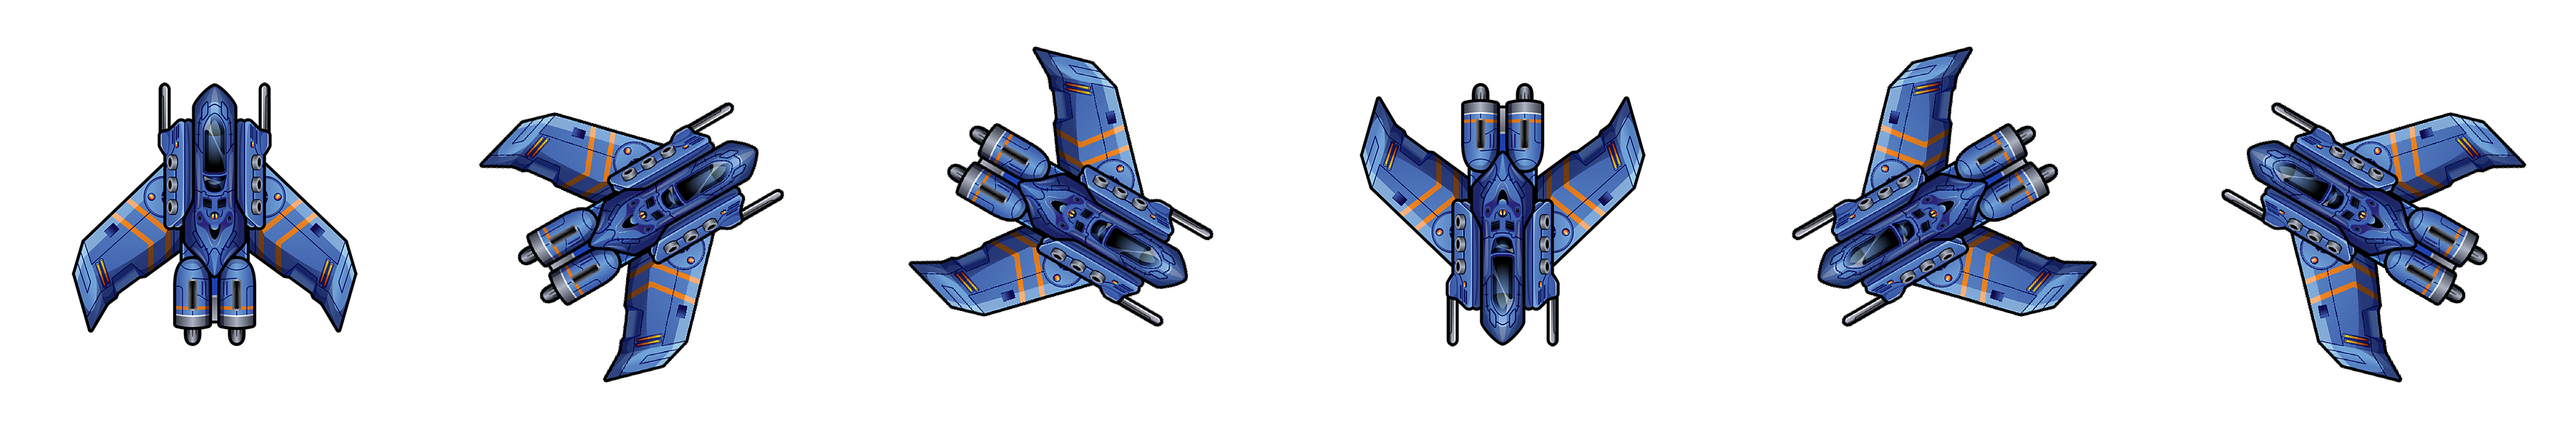
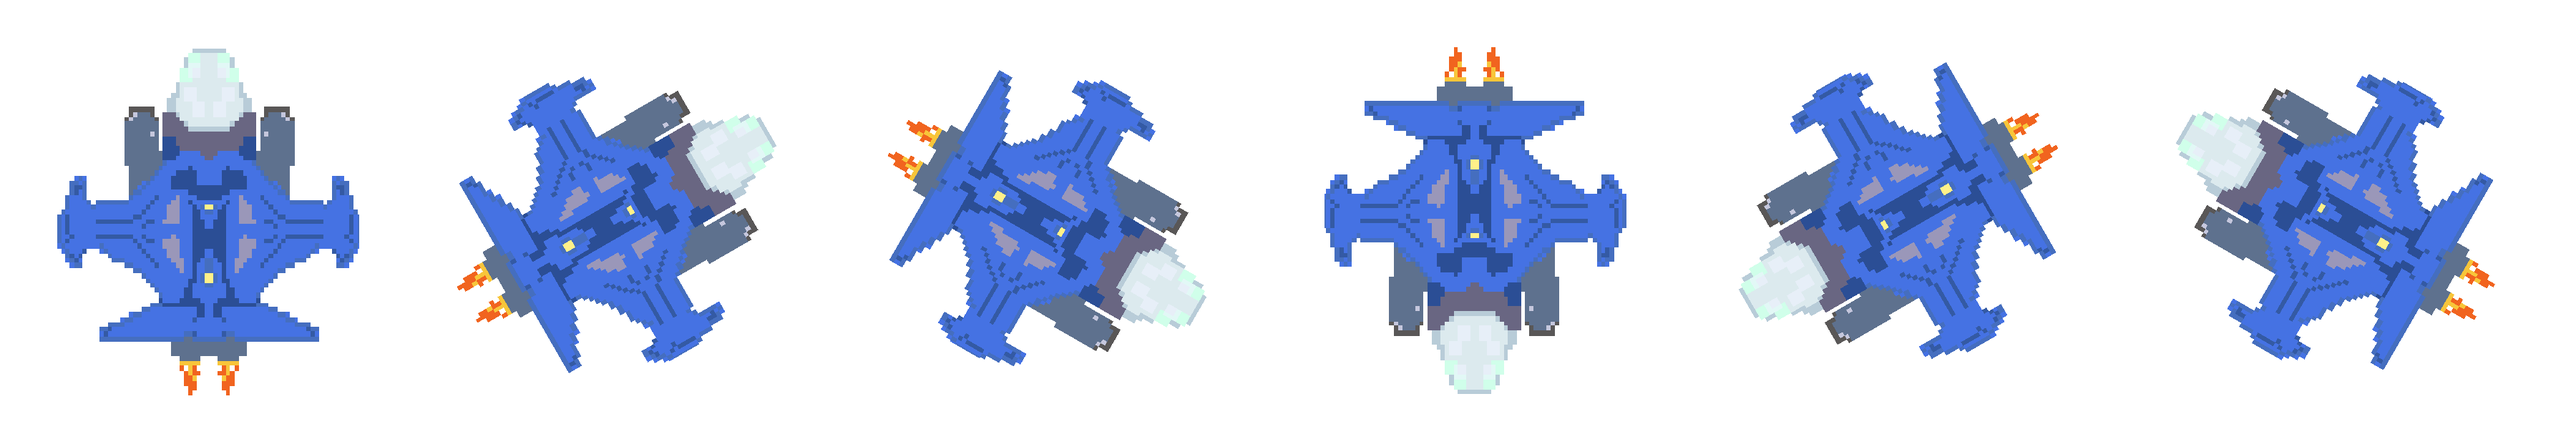
Update button behavior and add story content
- Changed the toggle function to default to true.
- Updated button click event to pass a parameter.
- Added a new story file featuring characters exploring space.
- Made changes to an image, creating a backup of the old version.

diff --git a/Hexstor.Module/Client/Modules/Hexstor.Module.Bridge/Index.razor.cs b/Hexstor.Module/Client/Modules/Hexstor.Module.Bridge/Index.razor.cs
@@ -109,7 +109,7 @@ public partial class Index : ModuleBase
         };
     }
 
-    private async Task ToggleRangeFinder(bool? setVisible)
+    private async Task ToggleRangeFinder(bool? setVisible = true)
     {
         isRangeFinderShown = (bool)((setVisible.HasValue) ? setVisible : !isRangeFinderShown);
         SiteState.Properties.Command = new Command
